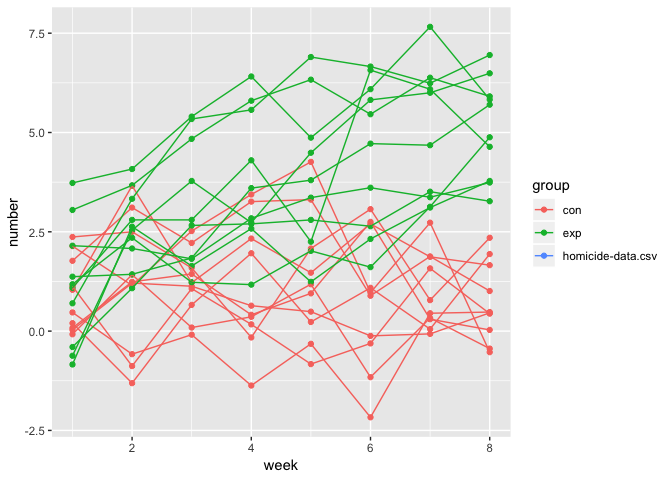
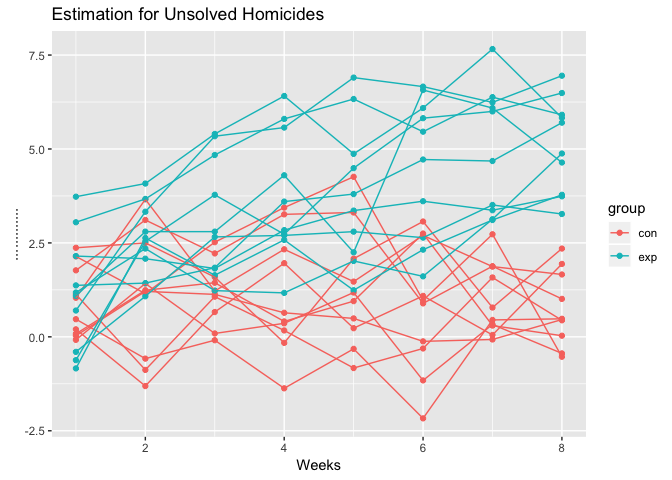
Change the errorbar.

diff --git a/p8105_hw5_qw2282.md b/p8105_hw5_qw2282.md
@@ -7,6 +7,7 @@ Qinyao Wu
 
 ``` r
 data_longitudinal = data_frame(filename = list.files("./data")) %>%
+  filter(!filename == "homicide-data.csv") %>% 
   mutate(file_contents = map(filename, ~read_csv(file.path("./data", . )))) %>% 
   unnest() %>% 
   separate(filename, into = c("group", "subject"), sep = "_") %>% 
@@ -243,35 +244,17 @@ data_longitudinal = data_frame(filename = list.files("./data")) %>%
     ##   week_8 = col_double()
     ## )
 
-    ## Parsed with column specification:
-    ## cols(
-    ##   uid = col_character(),
-    ##   reported_date = col_integer(),
-    ##   victim_last = col_character(),
-    ##   victim_first = col_character(),
-    ##   victim_race = col_character(),
-    ##   victim_age = col_character(),
-    ##   victim_sex = col_character(),
-    ##   city = col_character(),
-    ##   state = col_character(),
-    ##   lat = col_double(),
-    ##   lon = col_double(),
-    ##   disposition = col_character()
-    ## )
-
-    ## Warning: Expected 2 pieces. Missing pieces filled with `NA` in 52179 rows
-    ## [21, 22, 23, 24, 25, 26, 27, 28, 29, 30, 31, 32, 33, 34, 35, 36, 37, 38,
-    ## 39, 40, ...].
-
 ``` r
 ggplot(data_longitudinal, aes(x = week, y = number, group = (group:subject), color = group)) +
   geom_point() +
-  geom_line()
+  geom_line() +
+  labs(
+    title = "Estimation for Unsolved Homicides",
+    x = "Weeks",
+    ####################################################################
+    y = "............."
+  )
 ```
-
-    ## Warning: Removed 417432 rows containing missing values (geom_point).
-
-    ## Warning: Removed 417432 rows containing missing values (geom_path).
 
 ![](p8105_hw5_qw2282_files/figure-markdown_github/unnamed-chunk-1-1.png)
 
@@ -300,7 +283,8 @@ total_number_homicide =
   group_by(city_state, arrest_stage) %>% 
   summarize(total_number = n()) %>% 
   spread(key = arrest_stage, value = total_number) %>% 
-  mutate(total_number = arrested + unarrested)
+  replace(is.na(.), 0) %>% 
+  mutate(total_number = arrested + unarrested) 
   
 
 baltimore_data = total_number_homicide %>% 
@@ -310,3 +294,41 @@ output = prop.test(baltimore_data$unarrested, baltimore_data$total_number) %>%
   broom::tidy() %>% 
   select(estimate, conf.low, conf.high)
 ```
+
+``` r
+calculate_proportion = function(data) {
+  output = prop.test(data$unarrested, data$total_number) %>% 
+  broom::tidy() %>% 
+  select(estimate, conf.low, conf.high)
+  
+  output
+}
+
+
+
+estimation_for_city = total_number_homicide %>% 
+  nest(city_state, arrested:total_number) %>% 
+  mutate(proportion = map(data, calculate_proportion)) %>% 
+  unnest()
+```
+
+    ## Warning in prop.test(data$unarrested, data$total_number): Chi-squared
+    ## approximation may be incorrect
+
+Make the plot
+
+``` r
+estimation_for_city %>% 
+  mutate(city_state = forcats::fct_reorder(factor(city_state), unarrested/total_number)) %>% 
+  ggplot(aes(x = city_state, y = unarrested/total_number)) +
+  geom_point(size = 4, shape = 21, fill="white") +
+  geom_errorbar(aes(x = city_state, ymin = conf.low, ymax = conf.high)) +
+  theme(text = element_text(size = 6), axis.text.x = element_text(angle = 60, hjust = 1)) + 
+  labs(
+    title = "Estimation for Unsolved Homicides",
+    x = "City State",
+    y = "Estimation of unsolved homicides"
+  )
+```
+
+![](p8105_hw5_qw2282_files/figure-markdown_github/unnamed-chunk-4-1.png)
